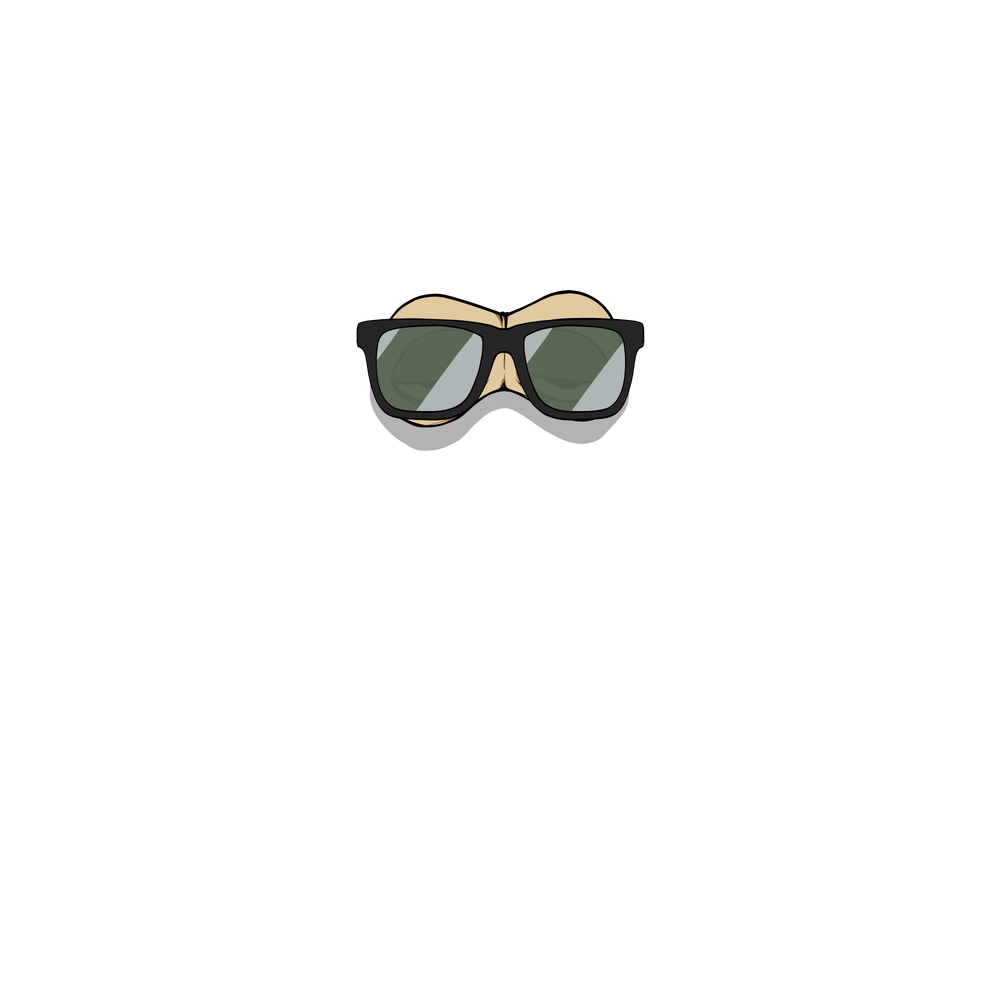
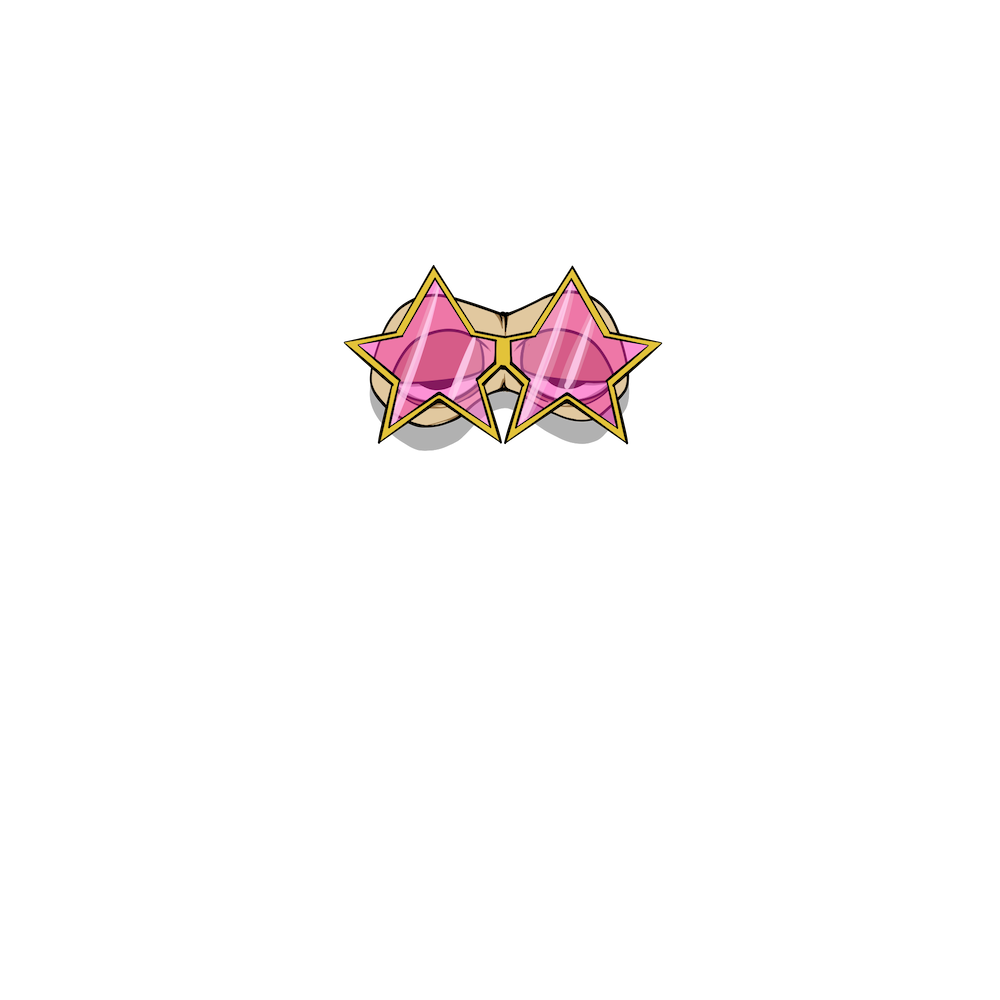
added new silvester traits

Changed region(s): [[0.341, 0.248, 0.651, 0.465]]

diff --git a/frontend/src/App.js b/frontend/src/App.js
@@ -280,7 +280,7 @@ function App() {
                     <h3 className="dropdown-header">Extra</h3>
                     <select value={thirdAsset} onChange={handleThirdAssetChange} className="dropdown" disabled={!tokenId}>
                         <option value="">Select</option>
-                        <option value="confetti">Confetto</option>
+                        <option value="confetti">Confetti</option>
                         <option value="snow">Snow</option>
                         <option value="verified">Verified</option>
                         <option value="transparent">Transparent Background</option>

diff --git a/backend/app.py b/backend/app.py
@@ -20,7 +20,7 @@ special_assets = {
     'adidas_hoodie': os.path.join(base_dir, 'memes', 'adidas_hoodie.png'),
     'adidas_yellow': os.path.join(base_dir, 'memes', 'adidas_yellow.png'),
     'sweater': os.path.join(base_dir, 'memes', 'sweater.png'),
-    'blazer': os.path.join(base_dir, 'memes', 'blazer.png')
+    'blazer': os.path.join(base_dir, 'memes', 'blazer.png'),
     'naked': os.path.join(base_dir, '_blank.png')
 }
 
@@ -31,8 +31,8 @@ main_assets = {
     'apecoin_hands1': os.path.join(base_dir, 'memes', 'apecoin_hands1.png'),
     'apecoin_hands2': os.path.join(base_dir, 'memes', 'apecoin_hands2.png'),
     'shoe': os.path.join(base_dir, 'memes', 'bape_shoe.png'),
-    'peace': os.path.join(base_dir, 'memes', 'peace.png')
-    'ballon_moon': os.path.join(base_dir, 'memes', 'balloon_moon.png')
+    'peace': os.path.join(base_dir, 'memes', 'peace.png'),
+    'ballon_moon': os.path.join(base_dir, 'memes', 'balloon_moon.png'),
     'fireworks': os.path.join(base_dir, 'memes', 'fireworks.png')
     # Add more asset types here as needed
 }
@@ -51,7 +51,7 @@ mouth_assets = {
 hat_assets = {
     'christmas_hat': os.path.join(base_dir, 'memes', 'christmas_hat.png'),
     'christmas_hat2': os.path.join(base_dir, 'memes', 'christmas_hat2.png'),
-    'christmas_hat3': os.path.join(base_dir, 'memes', 'christmas_hat3.png')
+    'christmas_hat3': os.path.join(base_dir, 'memes', 'christmas_hat3.png'),
     'glitter_cowboy_hat': os.path.join(base_dir, 'memes', 'glitter_cowboy_hat.png')
 }
 